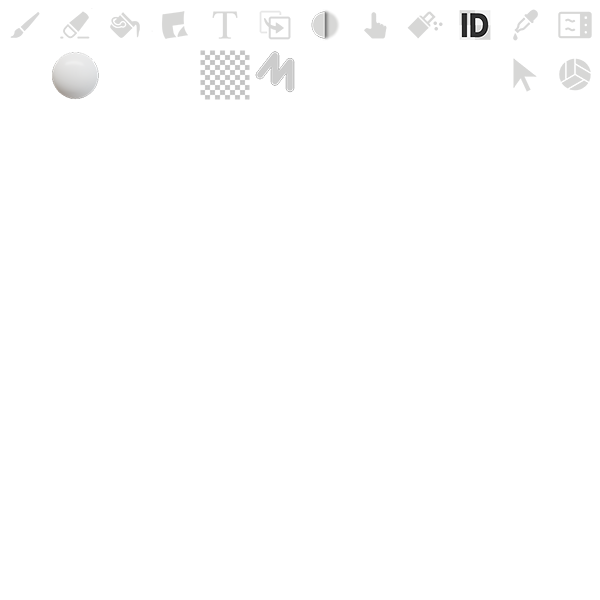
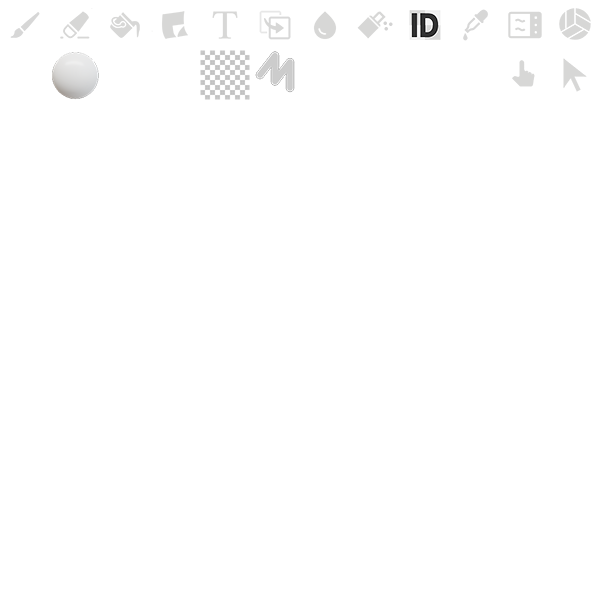
paint: merge smudge into blur tool

diff --git a/paint/sources/make_paint.c b/paint/sources/make_paint.c
@@ -228,7 +228,7 @@ node_shader_context_t *make_paint_run(material_t *data, material_context_t *matc
 	node_shader_add_constant(kong, "brush_hardness: float", "_brush_hardness");
 
 	if (g_context->tool == TOOL_TYPE_BRUSH || g_context->tool == TOOL_TYPE_ERASER || g_context->tool == TOOL_TYPE_CLONE || g_context->tool == TOOL_TYPE_BLUR ||
-	    g_context->tool == TOOL_TYPE_SMUDGE || g_context->tool == TOOL_TYPE_PARTICLE || decal) {
+	    g_context->tool == TOOL_TYPE_PARTICLE || decal) {
 
 		bool depth_reject = !g_context->xray;
 		if (!g_config->brush_depth_reject) {
@@ -292,7 +292,7 @@ node_shader_context_t *make_paint_run(material_t *data, material_context_t *matc
 
 	make_texcoord_run(kong);
 
-	if (g_context->tool == TOOL_TYPE_CLONE || g_context->tool == TOOL_TYPE_BLUR || g_context->tool == TOOL_TYPE_SMUDGE) {
+	if (g_context->tool == TOOL_TYPE_CLONE || g_context->tool == TOOL_TYPE_BLUR) {
 		node_shader_add_texture(kong, "gbuffer2", NULL);
 		node_shader_add_constant(kong, "gbuffer_size: float2", "_gbuffer_size");
 		node_shader_add_texture(kong, "texpaint_undo", "_texpaint_undo");
@@ -382,7 +382,7 @@ node_shader_context_t *make_paint_run(material_t *data, material_context_t *matc
 
 	if (g_context->brush_stencil_image != NULL &&
 	    (g_context->tool == TOOL_TYPE_BRUSH || g_context->tool == TOOL_TYPE_ERASER || g_context->tool == TOOL_TYPE_FILL || g_context->tool == TOOL_TYPE_CLONE ||
-	     g_context->tool == TOOL_TYPE_BLUR || g_context->tool == TOOL_TYPE_SMUDGE || g_context->tool == TOOL_TYPE_PARTICLE || decal)) {
+	     g_context->tool == TOOL_TYPE_BLUR || g_context->tool == TOOL_TYPE_PARTICLE || decal)) {
 		node_shader_add_texture(kong, "texbrushstencil", "_texbrushstencil");
 		node_shader_add_constant(kong, "texbrushstencil_size: float2", "_size(_texbrushstencil)");
 		node_shader_add_constant(kong, "stencil_transform: float4", "_stencil_transform");
@@ -506,7 +506,7 @@ node_shader_context_t *make_paint_run(material_t *data, material_context_t *matc
 		node_shader_write_frag(kong, "var out_a: float = sample_undo.a * (1.0 - str);");
 		node_shader_write_frag(kong, "output[0] = float4(sample_undo.rgb, out_a);");
 	}
-	else if ((g_context->tool == TOOL_TYPE_BLUR || g_context->tool == TOOL_TYPE_SMUDGE) && !is_mask) {
+	else if (g_context->tool == TOOL_TYPE_BLUR && !is_mask) {
 		node_shader_write_frag(kong, "var t_blur: float = str / max(blur_src_alpha, 0.0000001);");
 		node_shader_write_frag(kong, "var out_a: float = str + sample_undo.a * (1.0 - t_blur);");
 		node_shader_write_frag(kong,

diff --git a/paint/sources/base.c b/paint/sources/base.c
@@ -1185,9 +1185,6 @@ void ui_base_update(void *_) {
 			else if (operator_shortcut(any_map_get(config_keymap, "tool_blur"), SHORTCUT_TYPE_STARTED)) {
 				context_select_tool(TOOL_TYPE_BLUR);
 			}
-			else if (operator_shortcut(any_map_get(config_keymap, "tool_smudge"), SHORTCUT_TYPE_STARTED)) {
-				context_select_tool(TOOL_TYPE_SMUDGE);
-			}
 			else if (operator_shortcut(any_map_get(config_keymap, "tool_particle"), SHORTCUT_TYPE_STARTED)) {
 				context_select_tool(TOOL_TYPE_PARTICLE);
 			}
@@ -1211,7 +1208,7 @@ void ui_base_update(void *_) {
 		// Radius
 		if (g_context->tool == TOOL_TYPE_BRUSH || g_context->tool == TOOL_TYPE_ERASER || g_context->tool == TOOL_TYPE_DECAL ||
 		    g_context->tool == TOOL_TYPE_TEXT || g_context->tool == TOOL_TYPE_CLONE || g_context->tool == TOOL_TYPE_BLUR ||
-		    g_context->tool == TOOL_TYPE_SMUDGE || g_context->tool == TOOL_TYPE_PARTICLE) {
+		    g_context->tool == TOOL_TYPE_PARTICLE) {
 			if (operator_shortcut(any_map_get(config_keymap, "brush_radius"), SHORTCUT_TYPE_STARTED) ||
 			    operator_shortcut(any_map_get(config_keymap, "brush_opacity"), SHORTCUT_TYPE_STARTED) ||
 			    operator_shortcut(any_map_get(config_keymap, "brush_angle"), SHORTCUT_TYPE_STARTED) ||
@@ -1671,7 +1668,7 @@ void ui_base_render_cursor(void *_) {
 			}
 		}
 		if (g_context->tool == TOOL_TYPE_BRUSH || g_context->tool == TOOL_TYPE_ERASER || g_context->tool == TOOL_TYPE_CLONE ||
-		    g_context->tool == TOOL_TYPE_BLUR || g_context->tool == TOOL_TYPE_SMUDGE || g_context->tool == TOOL_TYPE_PARTICLE ||
+		    g_context->tool == TOOL_TYPE_BLUR || g_context->tool == TOOL_TYPE_PARTICLE ||
 		    (decal_mask && context_in_2d_view(VIEW_2D_TYPE_LAYER))) {
 			if (decal_mask) {
 				psize = math_floor(cursor_img->width * (g_context->brush_decal_mask_radius * g_context->brush_nodes_radius) * UI_SCALE());
@@ -1685,7 +1682,7 @@ void ui_base_render_cursor(void *_) {
 
 	if (g_context->brush_lazy_radius > 0 && !g_context->brush_locked && !slot_layer_is_path(g_context->layer) &&
 	    (g_context->tool == TOOL_TYPE_BRUSH || g_context->tool == TOOL_TYPE_ERASER || g_context->tool == TOOL_TYPE_DECAL || g_context->tool == TOOL_TYPE_TEXT ||
-	     g_context->tool == TOOL_TYPE_CLONE || g_context->tool == TOOL_TYPE_BLUR || g_context->tool == TOOL_TYPE_SMUDGE ||
+	     g_context->tool == TOOL_TYPE_CLONE || g_context->tool == TOOL_TYPE_BLUR ||
 	     g_context->tool == TOOL_TYPE_PARTICLE)) {
 		draw_filled_rect(mx - 1, my - 1, 2, 2);
 		mx         = g_context->brush_lazy_x * base_w() + base_x();

diff --git a/paint/sources/render_path_paint.c b/paint/sources/render_path_paint.c
@@ -388,7 +388,7 @@ void render_path_paint_commands_paint(bool dilation) {
 
 		// Read texcoords from gbuffer
 		bool read_tc = (g_context->tool == TOOL_TYPE_FILL && g_context->fill_type_handle->i == FILL_TYPE_FACE) || g_context->tool == TOOL_TYPE_CLONE ||
-		               g_context->tool == TOOL_TYPE_BLUR || g_context->tool == TOOL_TYPE_SMUDGE;
+		               g_context->tool == TOOL_TYPE_BLUR;
 
 		if (g_context->tool == TOOL_TYPE_PARTICLE) {
 			render_path_paint_commands_particle(tid, texpaint, is_mask);
@@ -565,7 +565,7 @@ void render_path_paint_commands_symmetry() {
 void render_path_paint_commands_live_brush() {
 	tool_type_t tool = g_context->tool;
 	if (tool != TOOL_TYPE_BRUSH && tool != TOOL_TYPE_ERASER && tool != TOOL_TYPE_CLONE && tool != TOOL_TYPE_DECAL && tool != TOOL_TYPE_TEXT &&
-	    tool != TOOL_TYPE_BLUR && tool != TOOL_TYPE_SMUDGE) {
+	    tool != TOOL_TYPE_BLUR) {
 		return;
 	}
 
@@ -657,7 +657,7 @@ void render_path_paint_draw_cursor(f32 mx, f32 my, f32 radius, f32 tint_r, f32 t
 void render_path_paint_commands_cursor() {
 	bool        decal_mask = context_is_decal_mask();
 	tool_type_t tool       = g_context->tool;
-	if (tool != TOOL_TYPE_BRUSH && tool != TOOL_TYPE_ERASER && tool != TOOL_TYPE_CLONE && tool != TOOL_TYPE_BLUR && tool != TOOL_TYPE_SMUDGE &&
+	if (tool != TOOL_TYPE_BRUSH && tool != TOOL_TYPE_ERASER && tool != TOOL_TYPE_CLONE && tool != TOOL_TYPE_BLUR &&
 	    tool != TOOL_TYPE_PARTICLE && !decal_mask) {
 		return;
 	}

diff --git a/paint/sources/enums.h b/paint/sources/enums.h
@@ -229,14 +229,18 @@ typedef enum {
 	TOOL_TYPE_TEXT     = 4,
 	TOOL_TYPE_CLONE    = 5,
 	TOOL_TYPE_BLUR     = 6,
-	TOOL_TYPE_SMUDGE   = 7,
-	TOOL_TYPE_PARTICLE = 8,
-	TOOL_TYPE_COLORID  = 9,
-	TOOL_TYPE_PICKER   = 10,
-	TOOL_TYPE_BAKE     = 11,
-	TOOL_TYPE_MATERIAL = 12,
-	TOOL_TYPE_CURSOR   = 13,
+	TOOL_TYPE_PARTICLE = 7,
+	TOOL_TYPE_COLORID  = 8,
+	TOOL_TYPE_PICKER   = 9,
+	TOOL_TYPE_BAKE     = 10,
+	TOOL_TYPE_MATERIAL = 11,
+	TOOL_TYPE_CURSOR   = 12,
 } tool_type_t;
+
+typedef enum {
+	BLUR_TYPE_BLUR   = 0,
+	BLUR_TYPE_SMUDGE = 1,
+} blur_type_t;
 
 typedef enum {
 	TAB_AREA_SIDEBAR0 = 0,
@@ -305,11 +309,11 @@ typedef enum {
 	ICON_TEXT             = 4,
 	ICON_CLONE            = 5,
 	ICON_BLUR             = 6,
-	ICON_SMUDGE           = 7,
-	ICON_PARTICLE         = 8,
-	ICON_COLOR_ID         = 9,
-	ICON_PICKER           = 10,
-	ICON_BAKE             = 11,
+	ICON_PARTICLE         = 7,
+	ICON_COLOR_ID         = 8,
+	ICON_PICKER           = 9,
+	ICON_BAKE             = 10,
+	ICON_MATERIAL         = 11,
 	ICON_DROP             = 12,
 	ICON_MATERIAL_PREVIEW = 13,
 	ICON_FOLDER_FULL      = 14,
@@ -320,8 +324,8 @@ typedef enum {
 	ICON_PROPERTIES       = 19,
 	ICON_FOLDER_OPEN      = 20,
 	ICON_EMPTY            = 21,
-	ICON_CURSOR           = 22,
-	ICON_MATERIAL         = 23,
+	ICON_SMUDGE           = 22,
+	ICON_CURSOR           = 23,
 	ICON_MENU             = 24,
 	ICON_FILE_NEW         = 25,
 	ICON_FOLDER           = 26,

diff --git a/paint/sources/ui_header.c b/paint/sources/ui_header.c
@@ -473,7 +473,7 @@ void ui_header_draw_tool_properties() {
 	}
 	else if (g_context->tool == TOOL_TYPE_BRUSH || g_context->tool == TOOL_TYPE_ERASER || g_context->tool == TOOL_TYPE_FILL ||
 	         g_context->tool == TOOL_TYPE_DECAL || g_context->tool == TOOL_TYPE_TEXT || g_context->tool == TOOL_TYPE_CLONE ||
-	         g_context->tool == TOOL_TYPE_BLUR || g_context->tool == TOOL_TYPE_SMUDGE || g_context->tool == TOOL_TYPE_PARTICLE) {
+	         g_context->tool == TOOL_TYPE_BLUR || g_context->tool == TOOL_TYPE_PARTICLE) {
 		bool decal_mask = context_is_decal_mask();
 		if (g_context->tool != TOOL_TYPE_FILL) {
 			if (decal_mask) {
@@ -628,6 +628,19 @@ void ui_header_draw_tool_properties() {
 		if (g_context->tool == TOOL_TYPE_PARTICLE) {
 			if (ui_button(tr("Particle"), UI_ALIGN_CENTER, "")) {
 				ui_menu_draw(&ui_header_particle_menu_draw, -1, -1);
+			}
+		}
+
+		if (g_context->tool == TOOL_TYPE_BLUR) {
+			string_array_t *blur_type_combo = any_array_create_from_raw(
+			    (void *[]){
+			        tr("Blur"),
+			        tr("Smudge"),
+			    },
+			    2);
+			g_context->blur_type = ui_combo(g_context->blur_type_handle, blur_type_combo, tr("Blur Type"), false, UI_ALIGN_LEFT, true);
+			if (g_context->blur_type_handle->changed) {
+				make_material_parse_paint_material(true);
 			}
 		}
 

diff --git a/paint/sources/make_sculpt.c b/paint/sources/make_sculpt.c
@@ -101,7 +101,7 @@ node_shader_context_t *sculpt_make_sculpt_run(material_t *data, material_context
 	node_shader_add_constant(kong, "brush_hardness: float", "_brush_hardness");
 
 	if (g_context->tool == TOOL_TYPE_BRUSH || g_context->tool == TOOL_TYPE_ERASER || g_context->tool == TOOL_TYPE_CLONE || g_context->tool == TOOL_TYPE_BLUR ||
-	    g_context->tool == TOOL_TYPE_SMUDGE || g_context->tool == TOOL_TYPE_PARTICLE || decal) {
+	    g_context->tool == TOOL_TYPE_PARTICLE || decal) {
 		node_shader_write_frag(kong, "var dist: float = 0.0;");
 		node_shader_write_frag(kong, "var depth: float = sample_lod(gbufferD, sampler_linear, constants.inp.xy, 0.0).r;");
 		node_shader_add_constant(kong, "invVP: float4x4", "_inv_view_proj_matrix");

diff --git a/paint/sources/kickstart.c b/paint/sources/kickstart.c
@@ -86,7 +86,6 @@ void _kickstart() {
 	        _tr("Text"),
 	        _tr("Clone"),
 	        _tr("Blur"),
-	        _tr("Smudge"),
 	        _tr("Particle"),
 	        _tr("ColorID"),
 	        _tr("Picker"),
@@ -94,7 +93,7 @@ void _kickstart() {
 	        _tr("Material"),
 	        _tr("Cursor"),
 	    },
-	    14);
+	    13);
 	gc_root(ui_toolbar_tool_names);
 
 	ui_toolbar_tooltip_extras = any_array_create_from_raw(
@@ -112,9 +111,8 @@ void _kickstart() {
 	        "",
 	        "",
 	        "",
-	        "",
 	    },
-	    14);
+	    13);
 	gc_root(ui_toolbar_tooltip_extras);
 	uniforms_ext_ortho_p = mat4_ortho(-0.5, 0.5, -0.5, 0.5, -0.5, 0.5);
 

diff --git a/paint/sources/make_blur.c b/paint/sources/make_blur.c
@@ -61,7 +61,7 @@ void make_blur_run(node_shader_t *kong) {
 
 	node_shader_add_constant(kong, "texpaint_size: float2", "_texpaint_size");
 	node_shader_write_frag(kong, "var blur_step: float = 1.0 / constants.texpaint_size.x;");
-	if (g_context->tool == TOOL_TYPE_SMUDGE) {
+	if (g_context->blur_type == BLUR_TYPE_SMUDGE) {
 		// node_shader_write_frag(kong, "const blur_weight: float[7] = {1.0 / 28.0, 2.0 / 28.0, 3.0 / 28.0, 4.0 / 28.0, 5.0 / 28.0, 6.0 / 28.0, 7.0 / 28.0};");
 		node_shader_add_function(kong, str_get_smudge_tool_weight);
 		node_shader_add_constant(kong, "brush_direction: float3", "_brush_direction");

diff --git a/paint/sources/render_path_base.c b/paint/sources/render_path_base.c
@@ -62,7 +62,7 @@ void render_path_base_begin() {
 
 	// Match projection matrix jitter
 	bool skip_taa = g_context->split_view || g_context->viewport_mode == VIEWPORT_MODE_PATH_TRACE || g_context->camera_type == CAMERA_TYPE_ORTHOGRAPHIC ||
-	                ((g_context->tool == TOOL_TYPE_CLONE || g_context->tool == TOOL_TYPE_BLUR || g_context->tool == TOOL_TYPE_SMUDGE) && g_context->pdirty > 0);
+	                ((g_context->tool == TOOL_TYPE_CLONE || g_context->tool == TOOL_TYPE_BLUR) && g_context->pdirty > 0);
 
 	if (skip_taa || g_config->brush_live) {
 		scene_camera->frame = 0;

diff --git a/paint/sources/context.c b/paint/sources/context.c
@@ -174,6 +174,8 @@ context_t *context_create() {
 	c->sym_y                             = false;
 	c->sym_z                             = false;
 	c->fill_type_handle                  = ui_handle_create();
+	c->blur_type_handle                  = ui_handle_create();
+	c->blur_type                         = BLUR_TYPE_BLUR;
 	c->paint2d                           = false;
 	c->maximized_sidebar_width           = 0;
 	c->drag_dest                         = 0;

diff --git a/paint/sources/keymap.c b/paint/sources/keymap.c
@@ -94,7 +94,6 @@ any_map_t *keymap_get_default() {
 	any_map_set(keymap, "tool_text", "t");
 	any_map_set(keymap, "tool_clone", "l");
 	any_map_set(keymap, "tool_blur", "u");
-	any_map_set(keymap, "tool_smudge", "m");
 	any_map_set(keymap, "tool_particle", "p");
 	any_map_set(keymap, "tool_colorid", "c");
 	any_map_set(keymap, "tool_picker", "v");

diff --git a/paint/sources/types.h b/paint/sources/types.h
@@ -369,6 +369,8 @@ typedef struct context {
 	bool                 sym_y;
 	bool                 sym_z;
 	struct ui_handle    *fill_type_handle;
+	struct ui_handle    *blur_type_handle;
+	i32                  blur_type;
 	bool                 paint2d;
 	i32                  maximized_sidebar_width;
 	i32                  drag_dest;
